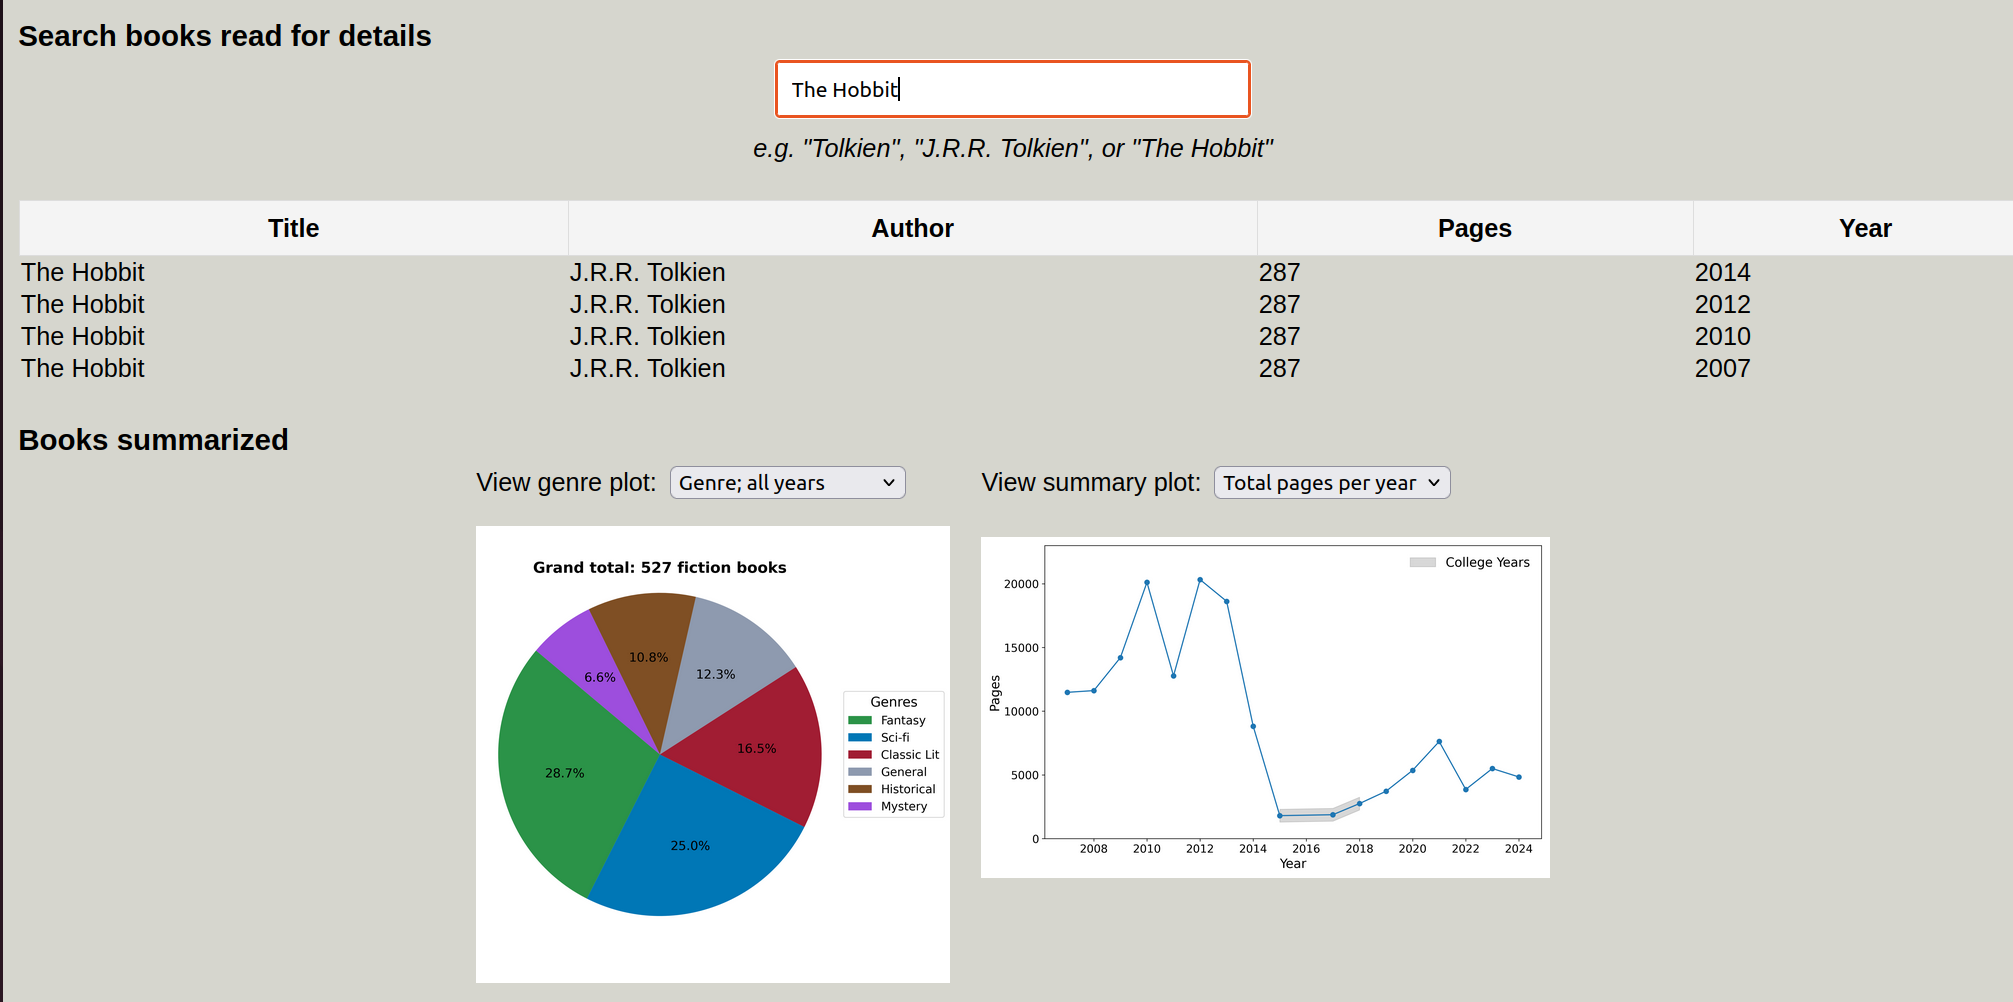
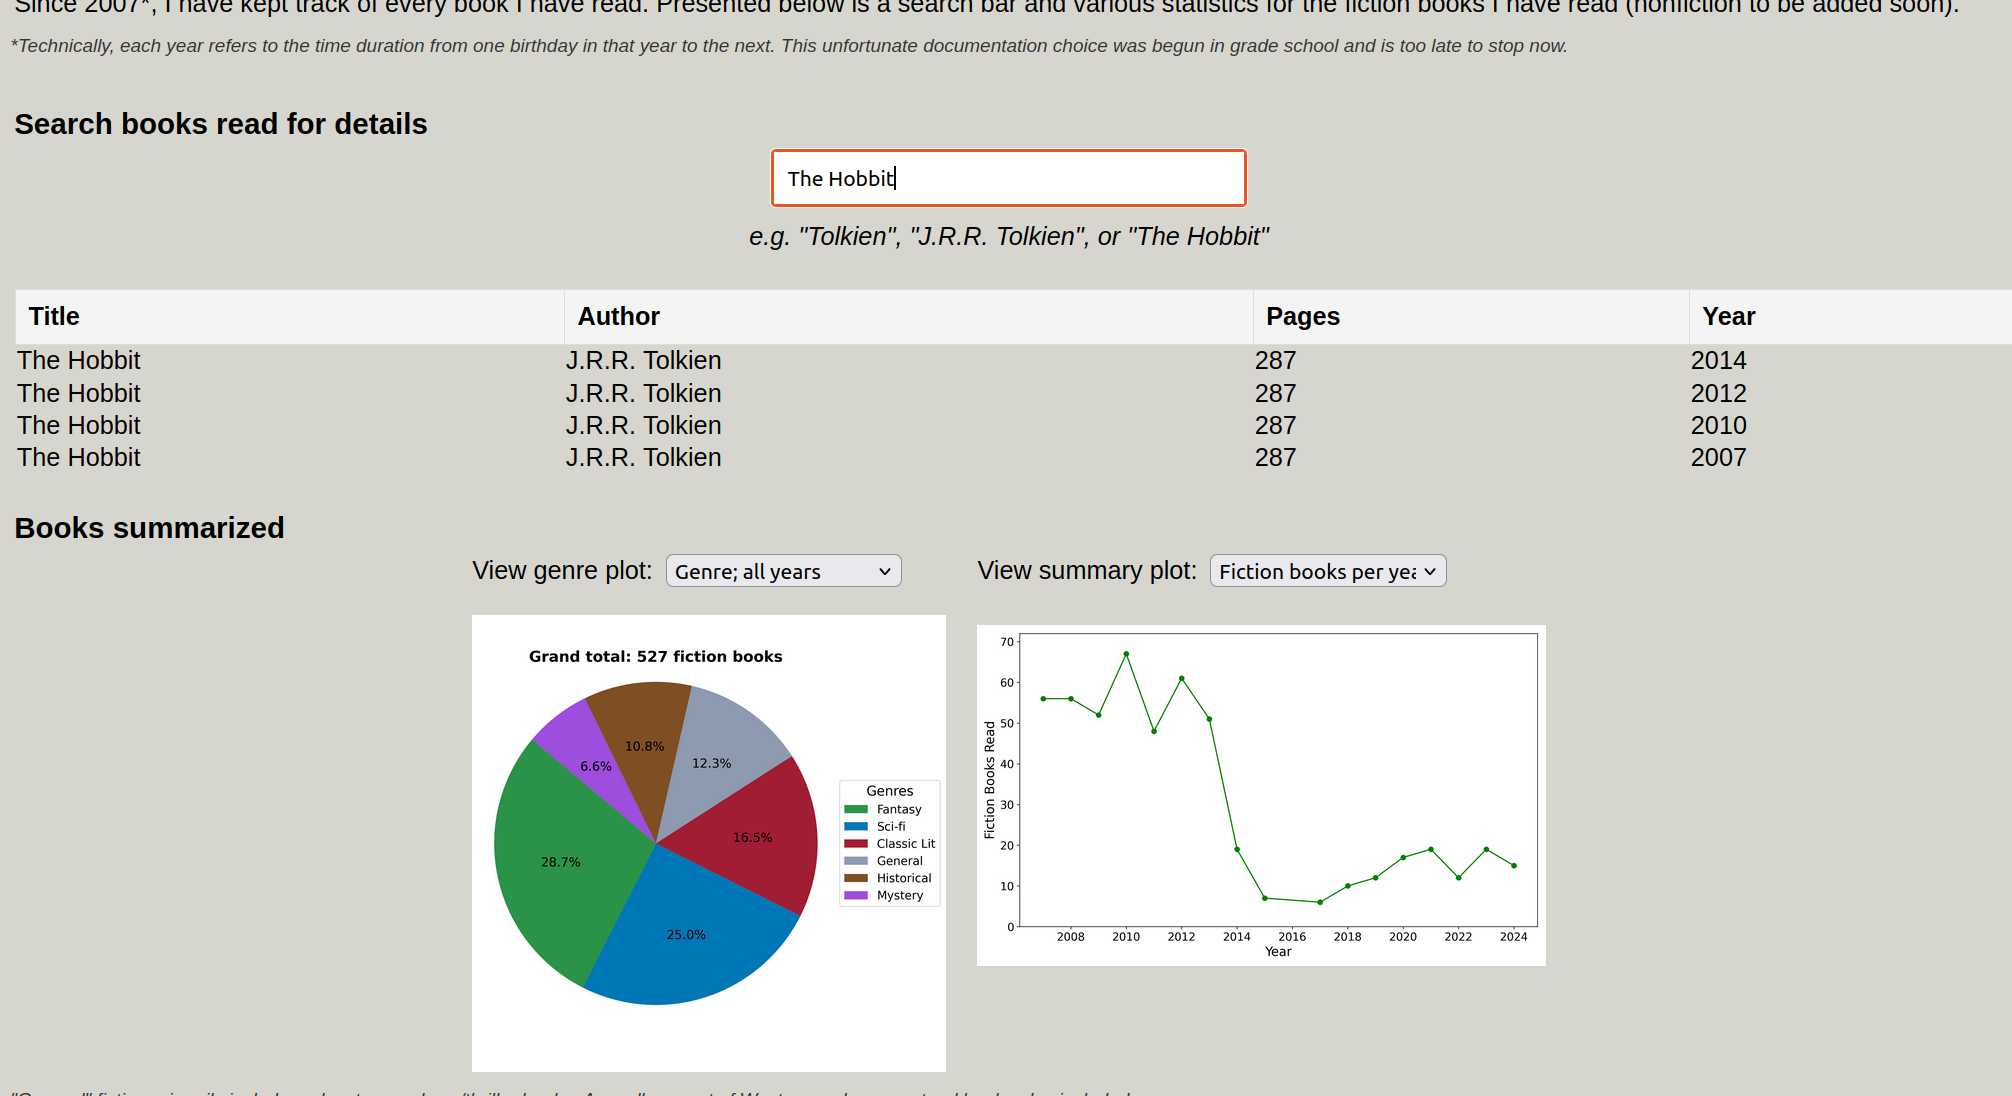
improve books read search table

diff --git a/style.css b/style.css
@@ -539,4 +539,8 @@ figcaption cite {
   text-decoration: underline;
 }
 
+#resultsTable th {
+  text-align: left;
+}
+
 
